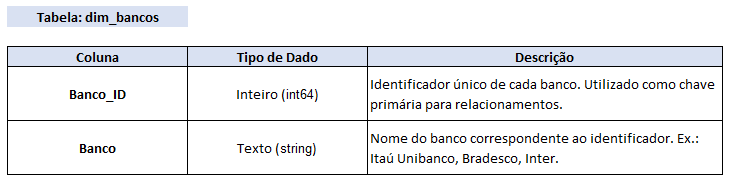
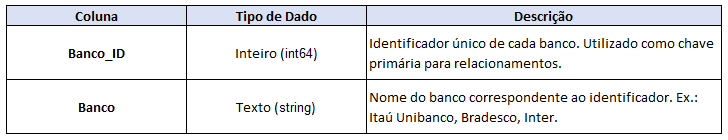
updating files: dim_bancos and dim_contas

diff --git a/README.md b/README.md
@@ -116,16 +116,19 @@ Segue abaixo modelo criado da tabela dim_calendario. Obs.: Menor data da base de
 ### 3.6. Dicionário de Dados
 O documento descreve de forma padronizada todas as informações utilizadas neste projeto, detalhando as colunas do dataset, os tipos de dados e as descrições para cada coluna. Ele serve como referência para garantir consistência, transparência e entendimento comum entre as equipes de negócio, TI e análise de dados, facilitando a manutenção e a integração das bases de dados.
 
-#### 3.3.1. Dataset: "Bancos.xlsx":
+#### 3.3.1. Tabela: "dim_bancos":
 ![tabela_bancos](files/dd_tabela_bancos.PNG) <br>
 
-#### 3.3.2. Dataset: "PlanoContas.xlsx":
+#### 3.3.2. Tabela: "dim_contas":
 ![tabela_plano_contas](files/dd_tabela_plano_contas.PNG) <br>
 
-#### 3.3.3. Dataset: "Movimentos.xlsx":
+#### 3.3.3. Tabela: "dim_calendario":
+![tabela_saldo_anterior](files/) <br>
+
+#### 3.3.4. Tabela: "f_movimentos":
 ![tabela_movimentos](files/dd_tabela_movimentos.PNG) <br>
 
-#### 3.3.4. Dataset: "SaldoAnterior.xlsx":
+#### 3.3.5. Tabela: "f_saldo_anterior":
 ![tabela_saldo_anterior](files/dd_tabela_saldo_anterior.PNG) <br>
 
 ### 3.7. Desenvolvimento dos Dashboards (Dataviz)
